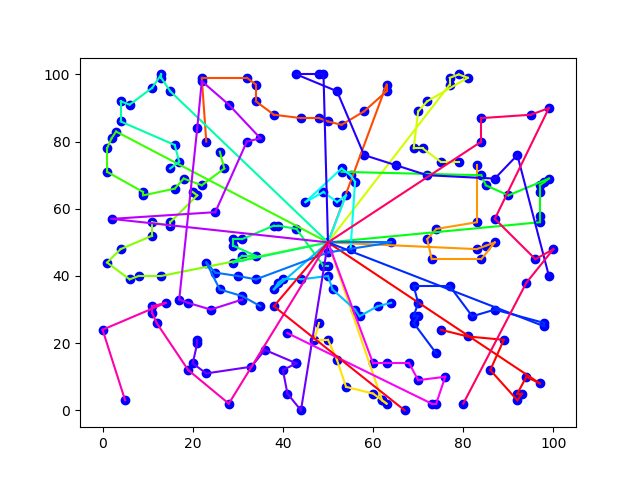
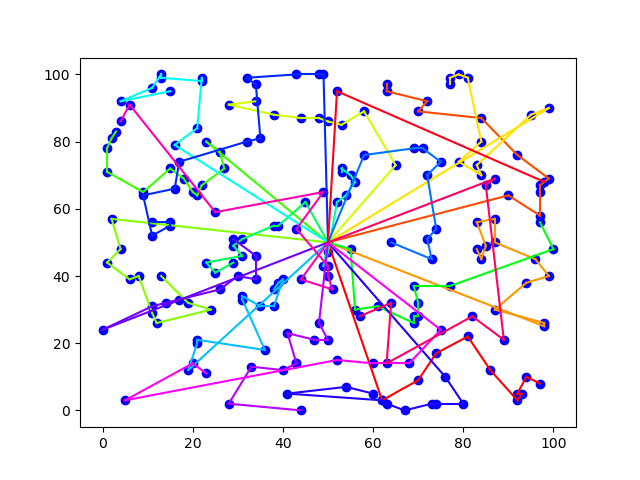
Added minimumInsertions method

diff --git a/Solver.py b/Solver.py
@@ -14,6 +14,13 @@ class ServiceLocationInsertion(object):
         self.route = None
         self.time = 10 ** 9
 
+class ServiceLocationInsertionAllPositions(object):
+    def __init__(self):
+        self.serviceLocation = None
+        self.route = None
+        self.insertionPosition = None
+        self.time = 10 ** 9
+
 class Solver:
     def __init__(self, m):
         self.all_nodes = m.all_nodes
@@ -29,7 +36,8 @@ class Solver:
 
     def solve(self):
         self.setRoutedFlagToFalseForAllServiceLocations()
-        self.applyNearestNeighborMethod()
+        self.minimumInsertions()
+        #self.applyNearestNeighborMethod()
         print("Time is", self.sol.time_cost)
         for r in self.sol.routes:
             r.printRoute()
@@ -126,3 +134,87 @@ class Solver:
         if (modelIsFeasible == False):
             print('FeasibilityIssue')
             # reportSolution
+
+
+    def minimumInsertions(self, itr=0):
+        modelIsFeasible = True
+        self.sol = Solution()
+        insertions = 0
+        while (insertions < len(self.service_locations)):
+            bestInsertion = ServiceLocationInsertionAllPositions()
+            lastOpenRoute: Route = self.getLastOpenRoute()
+
+            if lastOpenRoute is not None:
+                self.identifyBestInsertionAllPositions(bestInsertion, lastOpenRoute, itr)
+
+            if (bestInsertion.serviceLocation is not None):
+                self.applyLocationInsertionAllPositions(bestInsertion)
+                insertions += 1
+            else:
+                # If there is an empty available route
+                # kai na elegxei an ksepername to total_vehicles
+                if lastOpenRoute is not None and len(lastOpenRoute.sequenceOfNodes) == 1:
+                    modelIsFeasible = False
+                    break
+                else:
+                    if self.total_vehicles > len(self.sol.routes):
+                        rt = Route(self.depot, self.capacity)
+                        self.sol.routes.append(rt)
+                    else:
+                        modelIsFeasible = False
+
+        if (modelIsFeasible == False):
+            print('FeasibilityIssue')
+            # reportSolution
+
+
+    def identifyBestInsertionAllPositions(self, bestInsertion, rt, itr = 0):
+        random.seed(itr)
+        rcl = []
+        for i in range(0, len(self.service_locations)):
+            candidateServLoc: Node = self.service_locations[i]
+            if candidateServLoc.isRouted is False:
+                if rt.load + candidateServLoc.demand <= rt.capacity:
+                    if len(rt.sequenceOfNodes)==1:
+                        trialTime=self.time_matrix[0][candidateServLoc.id]
+                        bestInsertion.time = trialTime
+                        bestInsertion.serviceLocation = candidateServLoc
+                        bestInsertion.route = rt
+                        bestInsertion.insertionPosition = 1
+                        return
+                    for j in range(0, len(rt.sequenceOfNodes)-1):
+                        A = rt.sequenceOfNodes[j]
+                        B = rt.sequenceOfNodes[j + 1]
+                        timeAdded = self.time_matrix[A.id][candidateServLoc.id] + self.time_matrix[candidateServLoc.id][B.id]
+                        timeRemoved = self.time_matrix[A.id][B.id]
+                        trialTime = timeAdded - timeRemoved
+
+                        if len(rcl) < self.rcl_size:
+                            new_tup = (trialTime, candidateServLoc, rt, j)
+                            rcl.append(new_tup)
+                            rcl.sort(key=lambda x: x[0])
+                        elif trialTime < rcl[-1][0]:
+                            rcl.pop(len(rcl) - 1)
+                            new_tup = (trialTime, candidateServLoc, rt, j)
+                            rcl.append(new_tup)
+                            rcl.sort(key=lambda x: x[0])
+        if len(rcl) > 0:
+            tup_index = random.randint(0, len(rcl)-1)
+            tpl = rcl[tup_index]
+            bestInsertion.time = tpl[0]
+            bestInsertion.serviceLocation = tpl[1]
+            bestInsertion.route = tpl[2]
+            bestInsertion.insertionPosition = tpl[3]
+
+    def applyLocationInsertionAllPositions(self, insertion):
+        insLocation = insertion.serviceLocation
+        rt = insertion.route
+        # before the second depot occurrence
+        insIndex = insertion.insertionPosition
+        rt.sequenceOfNodes.insert(insIndex + 1, insLocation)
+        rt.time += insertion.time
+        routes_sorted = self.sol.routes[:]
+        routes_sorted.sort(key=lambda x: x.time)
+        self.sol.time_cost = routes_sorted[-1].time
+        rt.load += insLocation.demand
+        insLocation.isRouted = True
